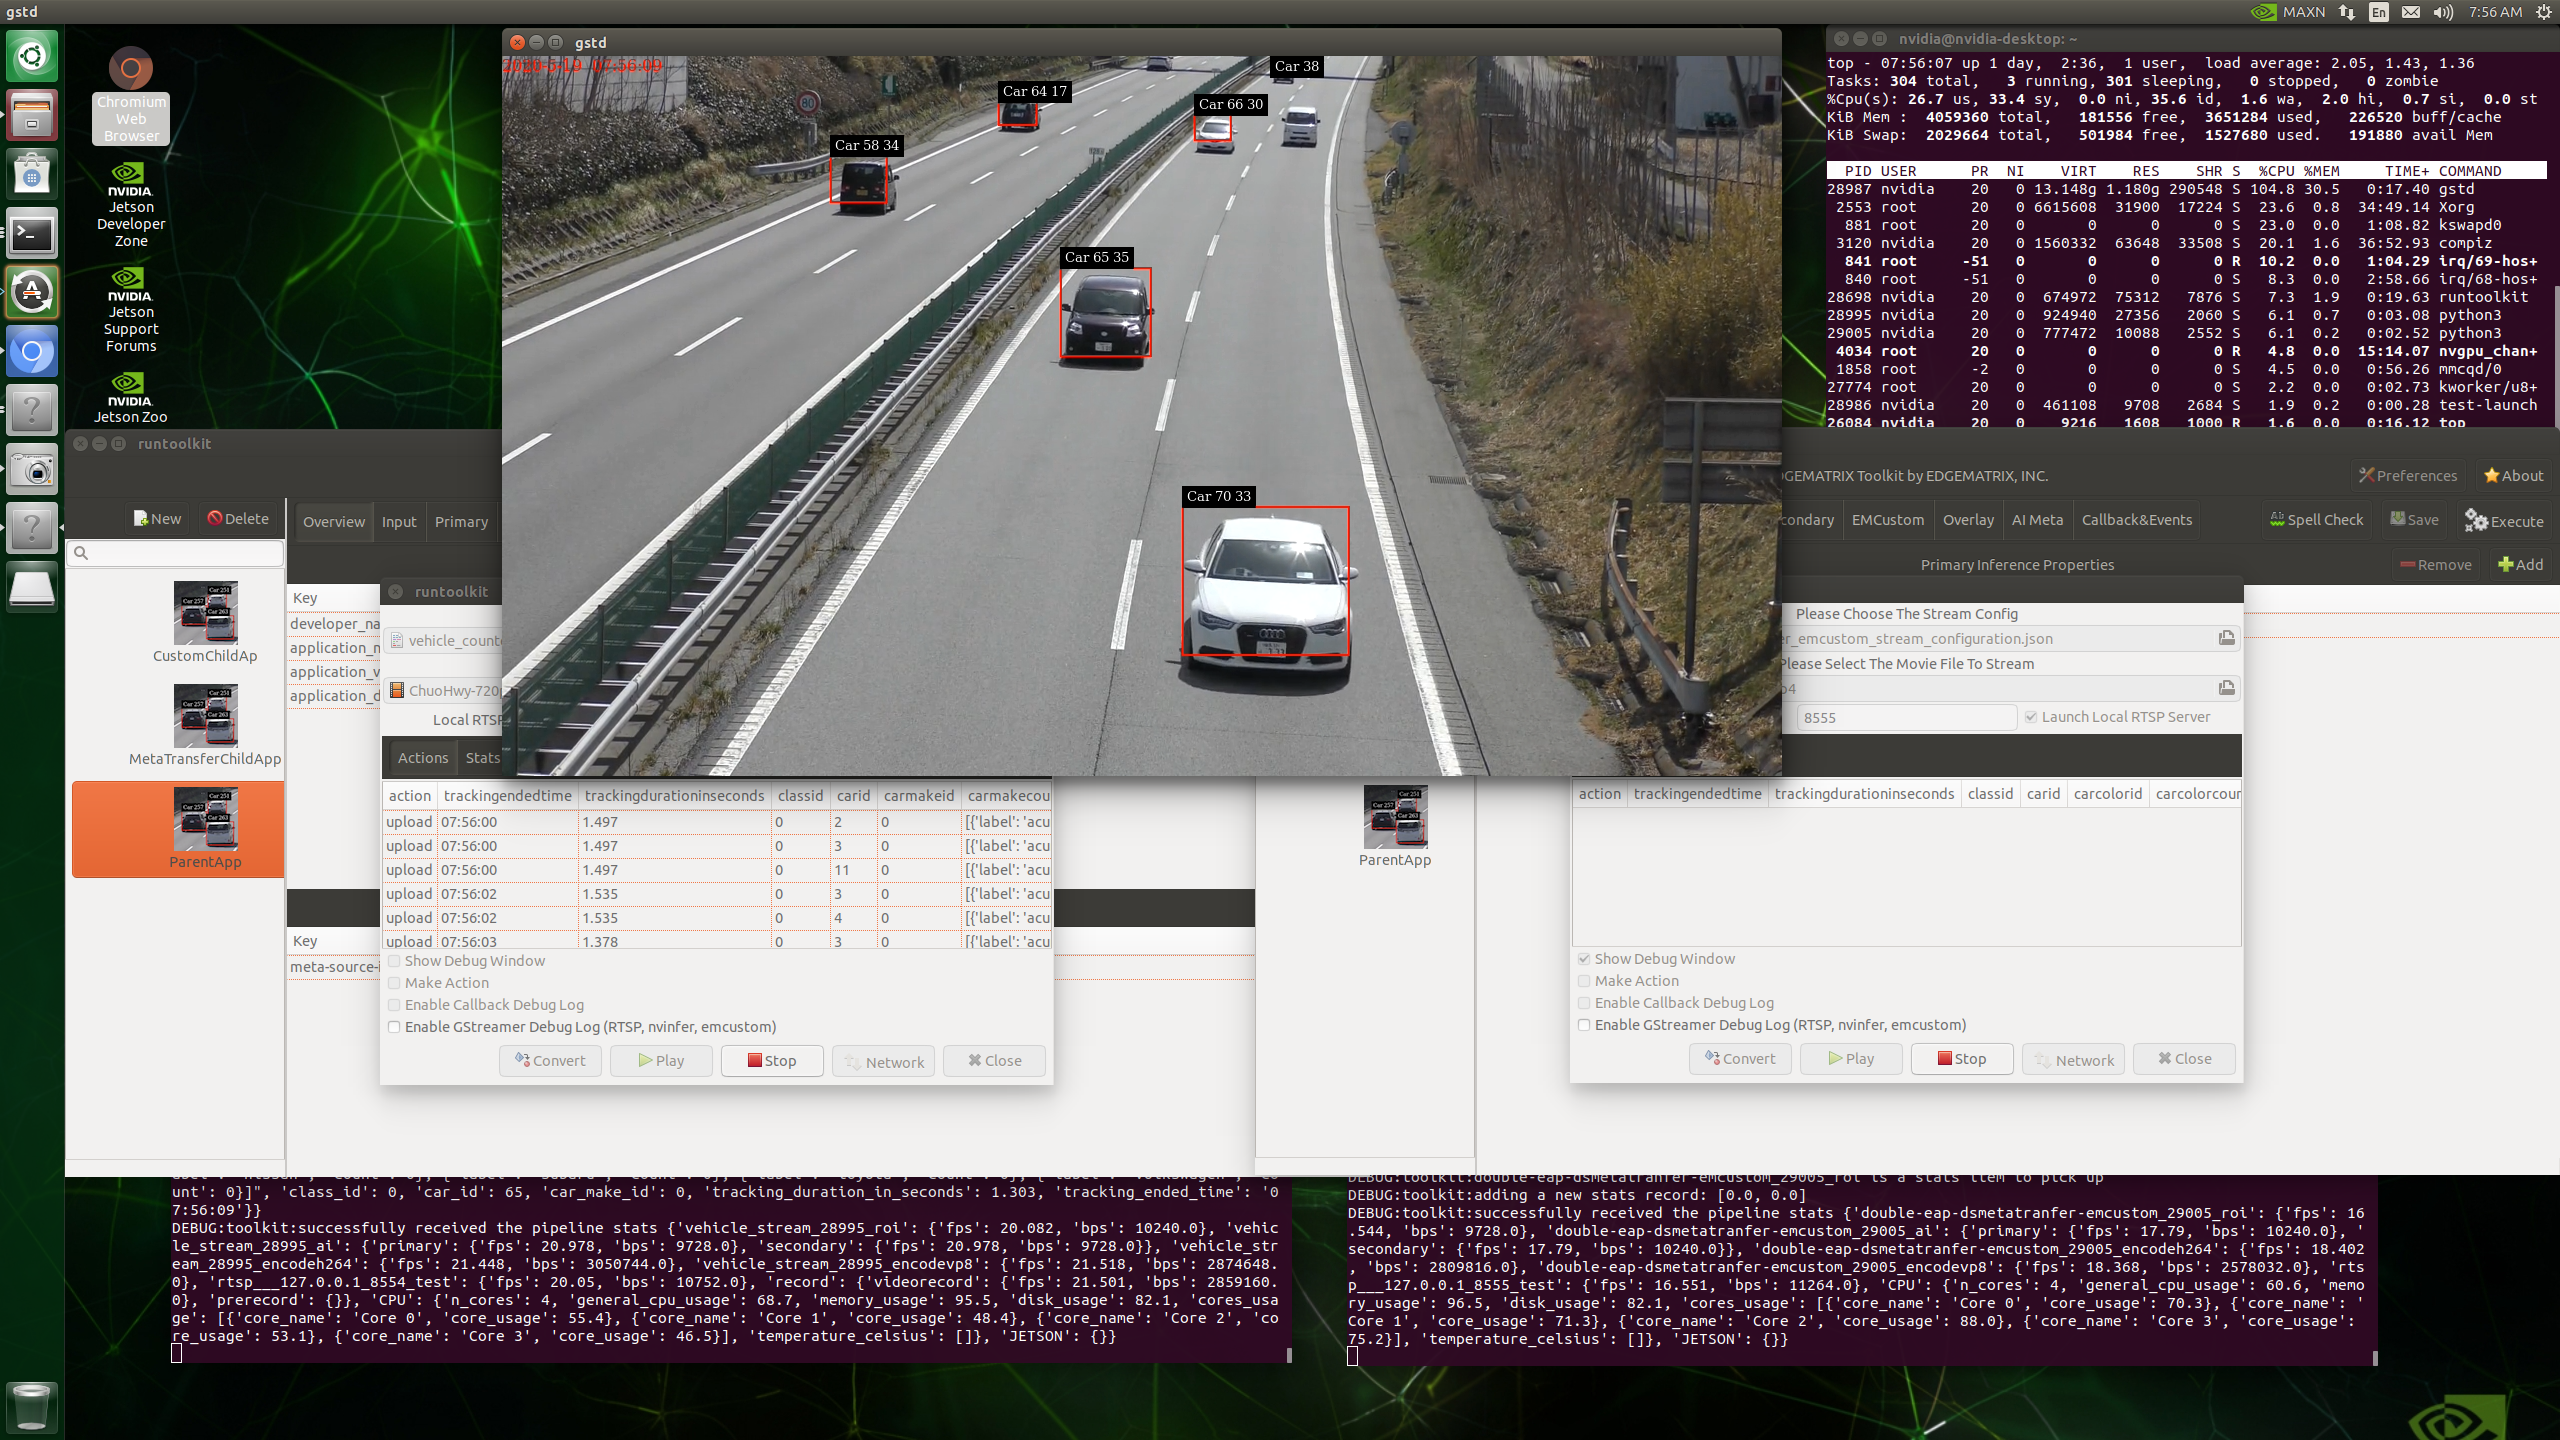
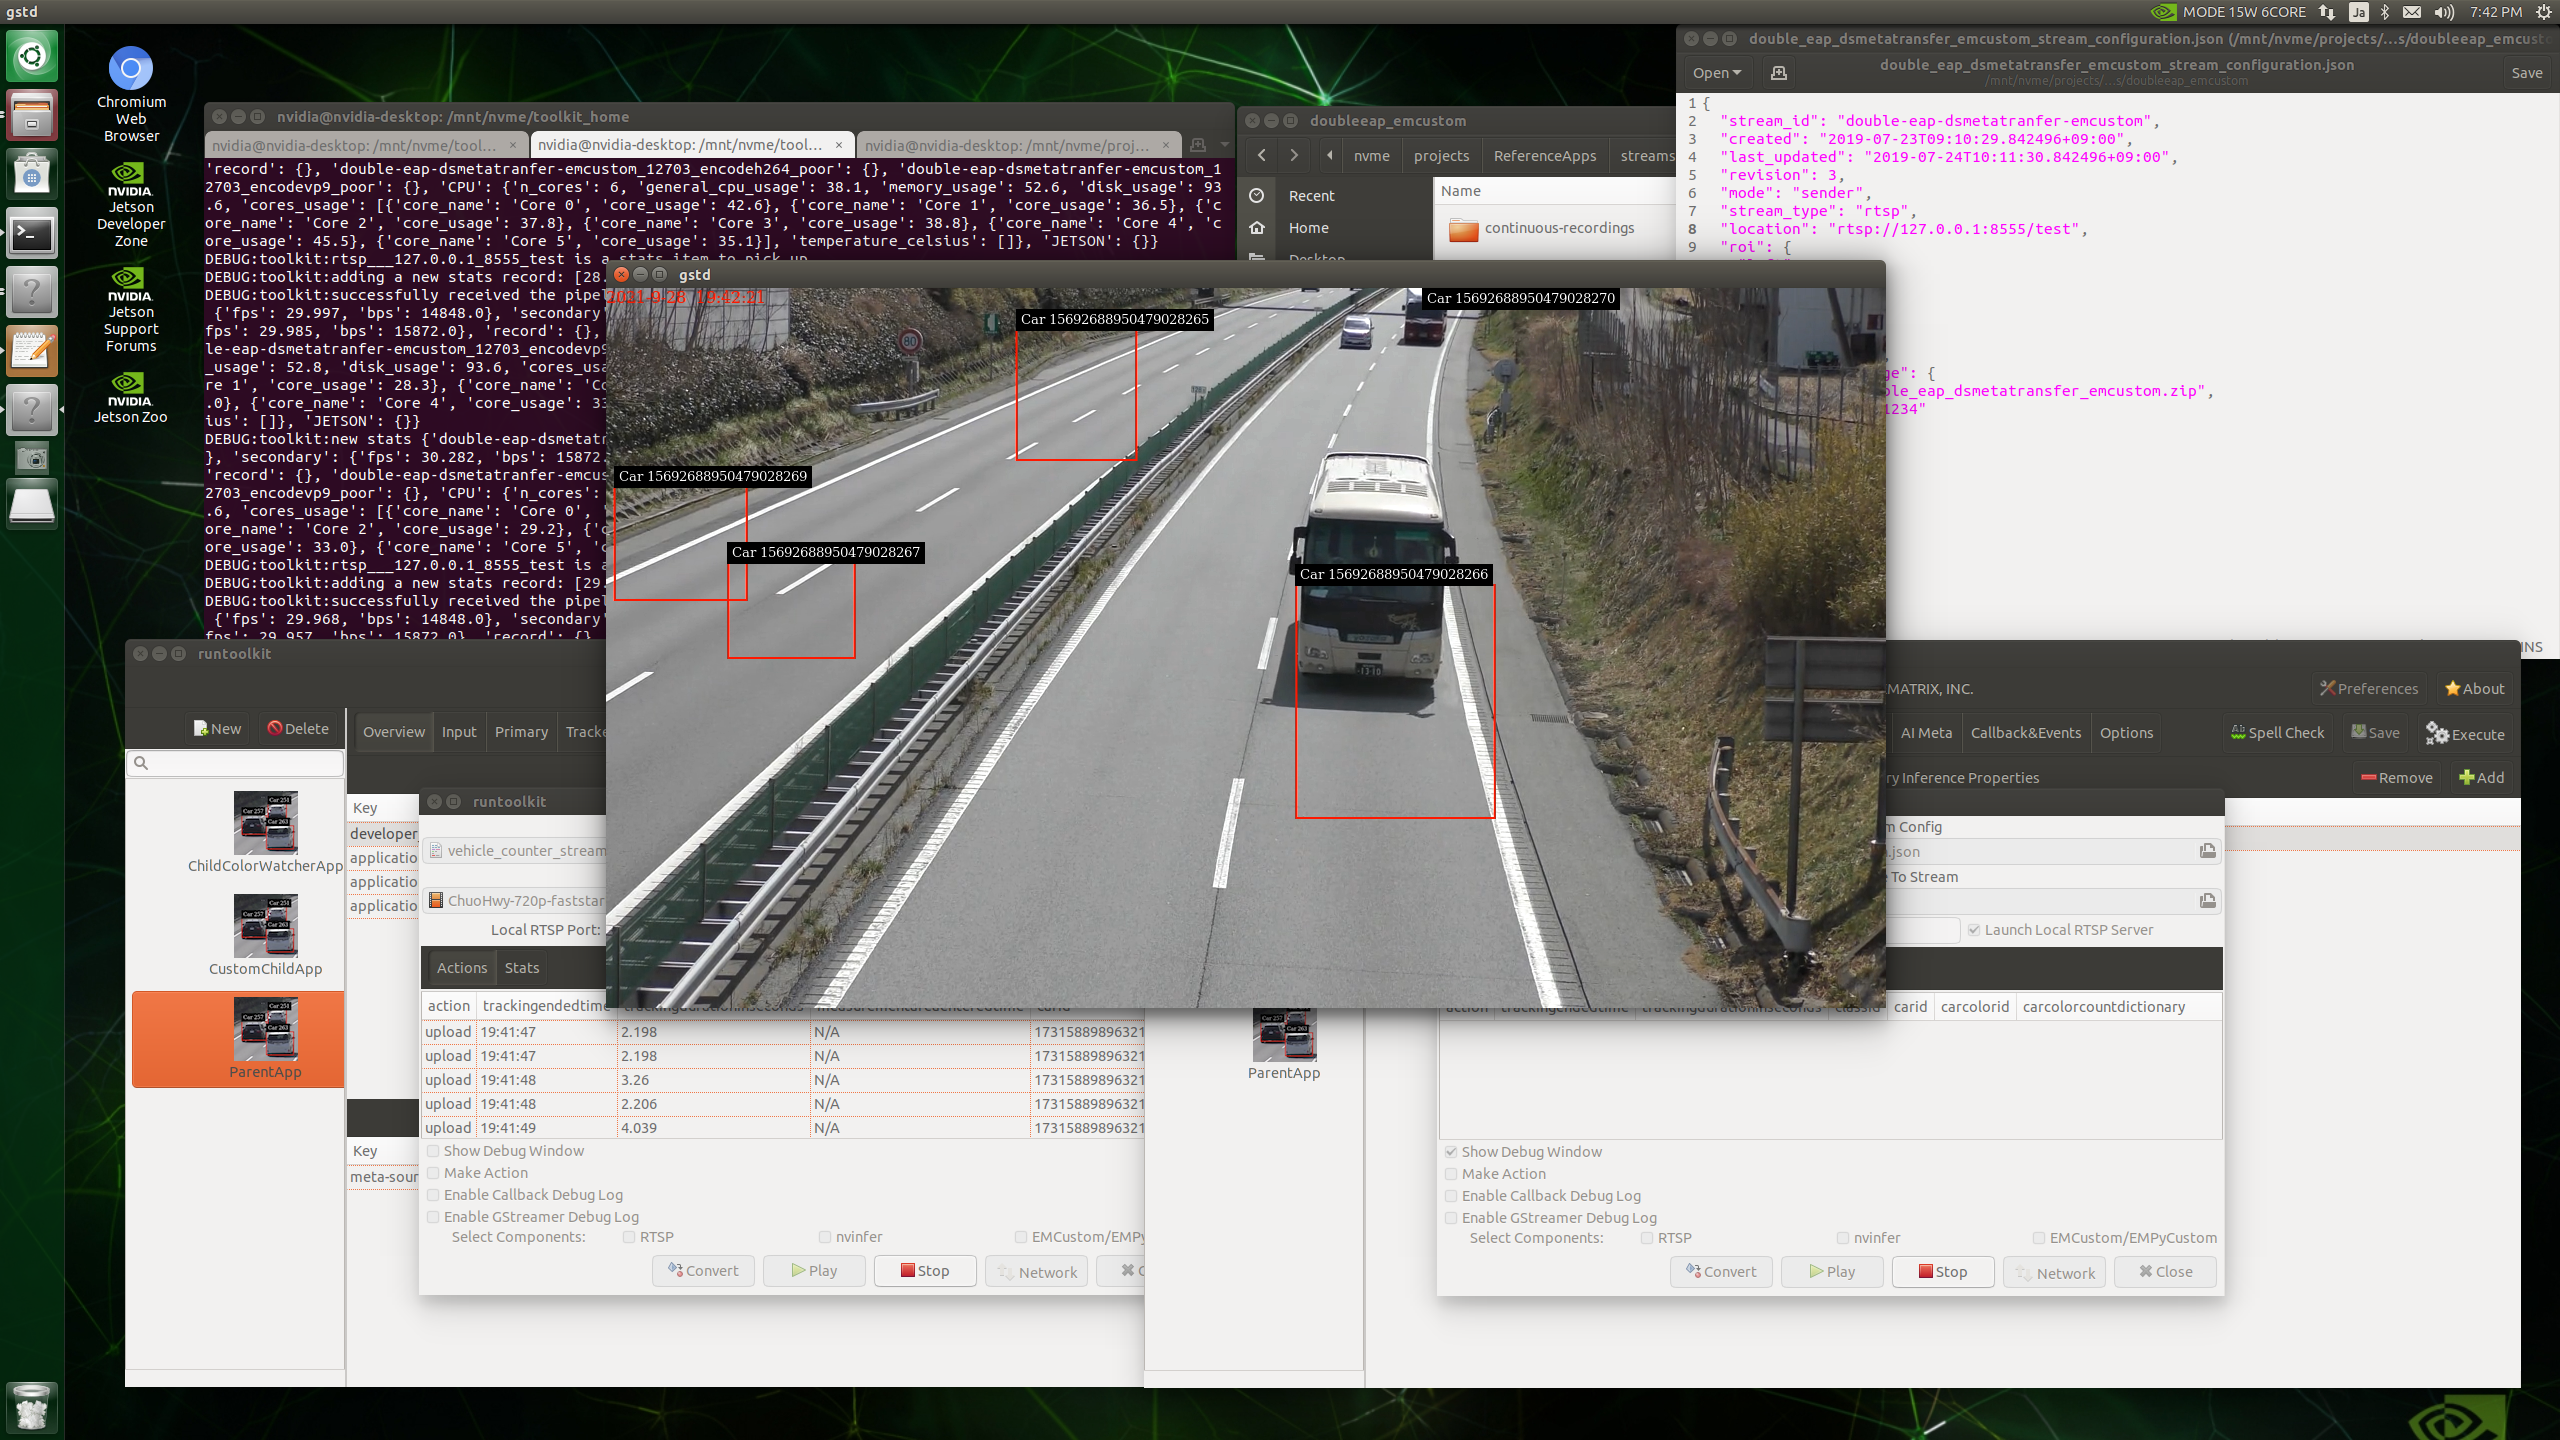
#17 updated doubleeaps

diff --git a/doubleeaps.rst b/doubleeaps.rst
@@ -46,13 +46,13 @@ Examples
 
 1. To add a Secondary only EAP 
 
-* (parent) EMI Vehicle IOU Counter By Make 720p
-* (child) EMI Vehicle DCF MetaTransfer
+* (parent) EMI Vehicle Counter
+* (child) EMI Vehicle Color Watcher
 
 2. To use two cameras (RTSP streams)
 
-* (parent) EMI Vehicle IOU Counter By Make 720p
-* (child) EMI Vehicle DCF EMCustom
+* (parent) EMI Vehicle Counter
+* (child) EMI Vehicle EMCustom
 
 ^^^^^^^^^^^^^^^^^^^^^^^^^^^^^^^^^^^^^^^^^^
 Preparation
@@ -60,28 +60,30 @@ Preparation
 
 As a preparation, all the resources have to be generated with a ``prepare_resource.sh`` script in each resource folder of templates.
 
-EMI Vehicle IOU Counter By Make 720p
+EMI Vehicle Counter
 
 .. code-block:: bash
 
   $ cd /mnt/nvme/toolkit_home
-  $ cd templates/EMI\ Vehicle\ IOU\ Counter\ By\ Make\ 720p/resource/
+  $ cd templates/EMI\ Vehicle\ Counter/resource/
   $ ./prepare_resource.sh
   $ cd ../../../
 
-EMI Vehicle DCF MetaTransfer
+EMI Vehicle Color Watcher
 
 .. code-block:: bash
 
-  $ cd templates/EMI\ Vehicle\ DCF\ MetaTransfer/resource/
+  $ cd templates/EMI\ Vehicle\ Color\ Watcher/resource/
   $ ./prepare_resource.sh
+  $ cd ../../../
 
-EMI Vehicle DCF EMCustom
+EMI Vehicle EMCustom
 
 .. code-block:: bash
 
-  $ cd templates/EMI\ Vehicle\ DCF\ EMCustom/resource/
+  $ cd templates/EMI\ Vehicle\ EMCustom/resource/
   $ ./prepare_resource.sh
+  $ cd ../../../
 
 ^^^^^^^^^^^^^^^^^^^^^^^^^^^^^^^^^^^^^^^^^^
 Create Apps
@@ -96,15 +98,10 @@ Then, you will have three apps as follows.
 
 ParentApp
 
-By selecting the ParentApp, you can find it is the same as the EMI Vehicle IOU Counter By Make as the name suggests except for the following two configurations.
-
-A. 720p instead of 1080p
-B. meta-source-id for the Double EAPs support (referenced by a child app, see below)
+By selecting the ParentApp, you can find the property to enable one app to work with another, which is meta-source-id for the Double EAPs support (referenced by a child app, see below).
 
     .. image:: images/doubleeaps/meta-source-id.png
        :align: center
-
-And this app works exactly the same way as the EMI Vehicle IOU Counter By Make.
 
 ^^^^^^^^^^^^^^^^^^^^^^^^^^^^^^^^^^^^^^^^^^
 1. To add a Secondary only EAP
@@ -117,17 +114,17 @@ At first, please setup the ParentApp as shown below. The stream config is from t
 
 
 
-Then, launch another toolkit from another shell. Then select the MetaTransferChildApp and go to the Primary tab. You will find a new GUI that enables to receive inference results from a parent app instead of its own primary inference.
+Then, launch another toolkit from another shell. Then select the ChildColorWatcherApp and go to the Primary tab. You will find a new GUI that enables to receive inference results from a parent app instead of its own primary inference.
 
     .. image:: images/doubleeaps/metatransfermode.png
        :align: center
 
-Then, setup the MetaTransferChildApp as shown below. The stream config is from the doubleeap_emcustom stream. Note that the Launch Local RTSP Server is not checked because it will use the same RTSP source as the one of the ParentApp.
+Then, setup the ChildColorWatcherApp as shown below. The stream config is from the vehicle_color_watcher stream. Note that the Launch Local RTSP Server is not checked because it will use the same RTSP source as the one of the ParentApp.
 
     .. image:: images/doubleeaps/metatransferapp.png
        :align: center
 
-Now, it is time to start the ParentApp first. Then, after pressing the Start button, start the MetaTransferChildApp.
+Now, it is time to start the ParentApp first. Then, after pressing the Start button, start the ChildColorWatcherApp.
 
 You will see a desktop like this.
 
